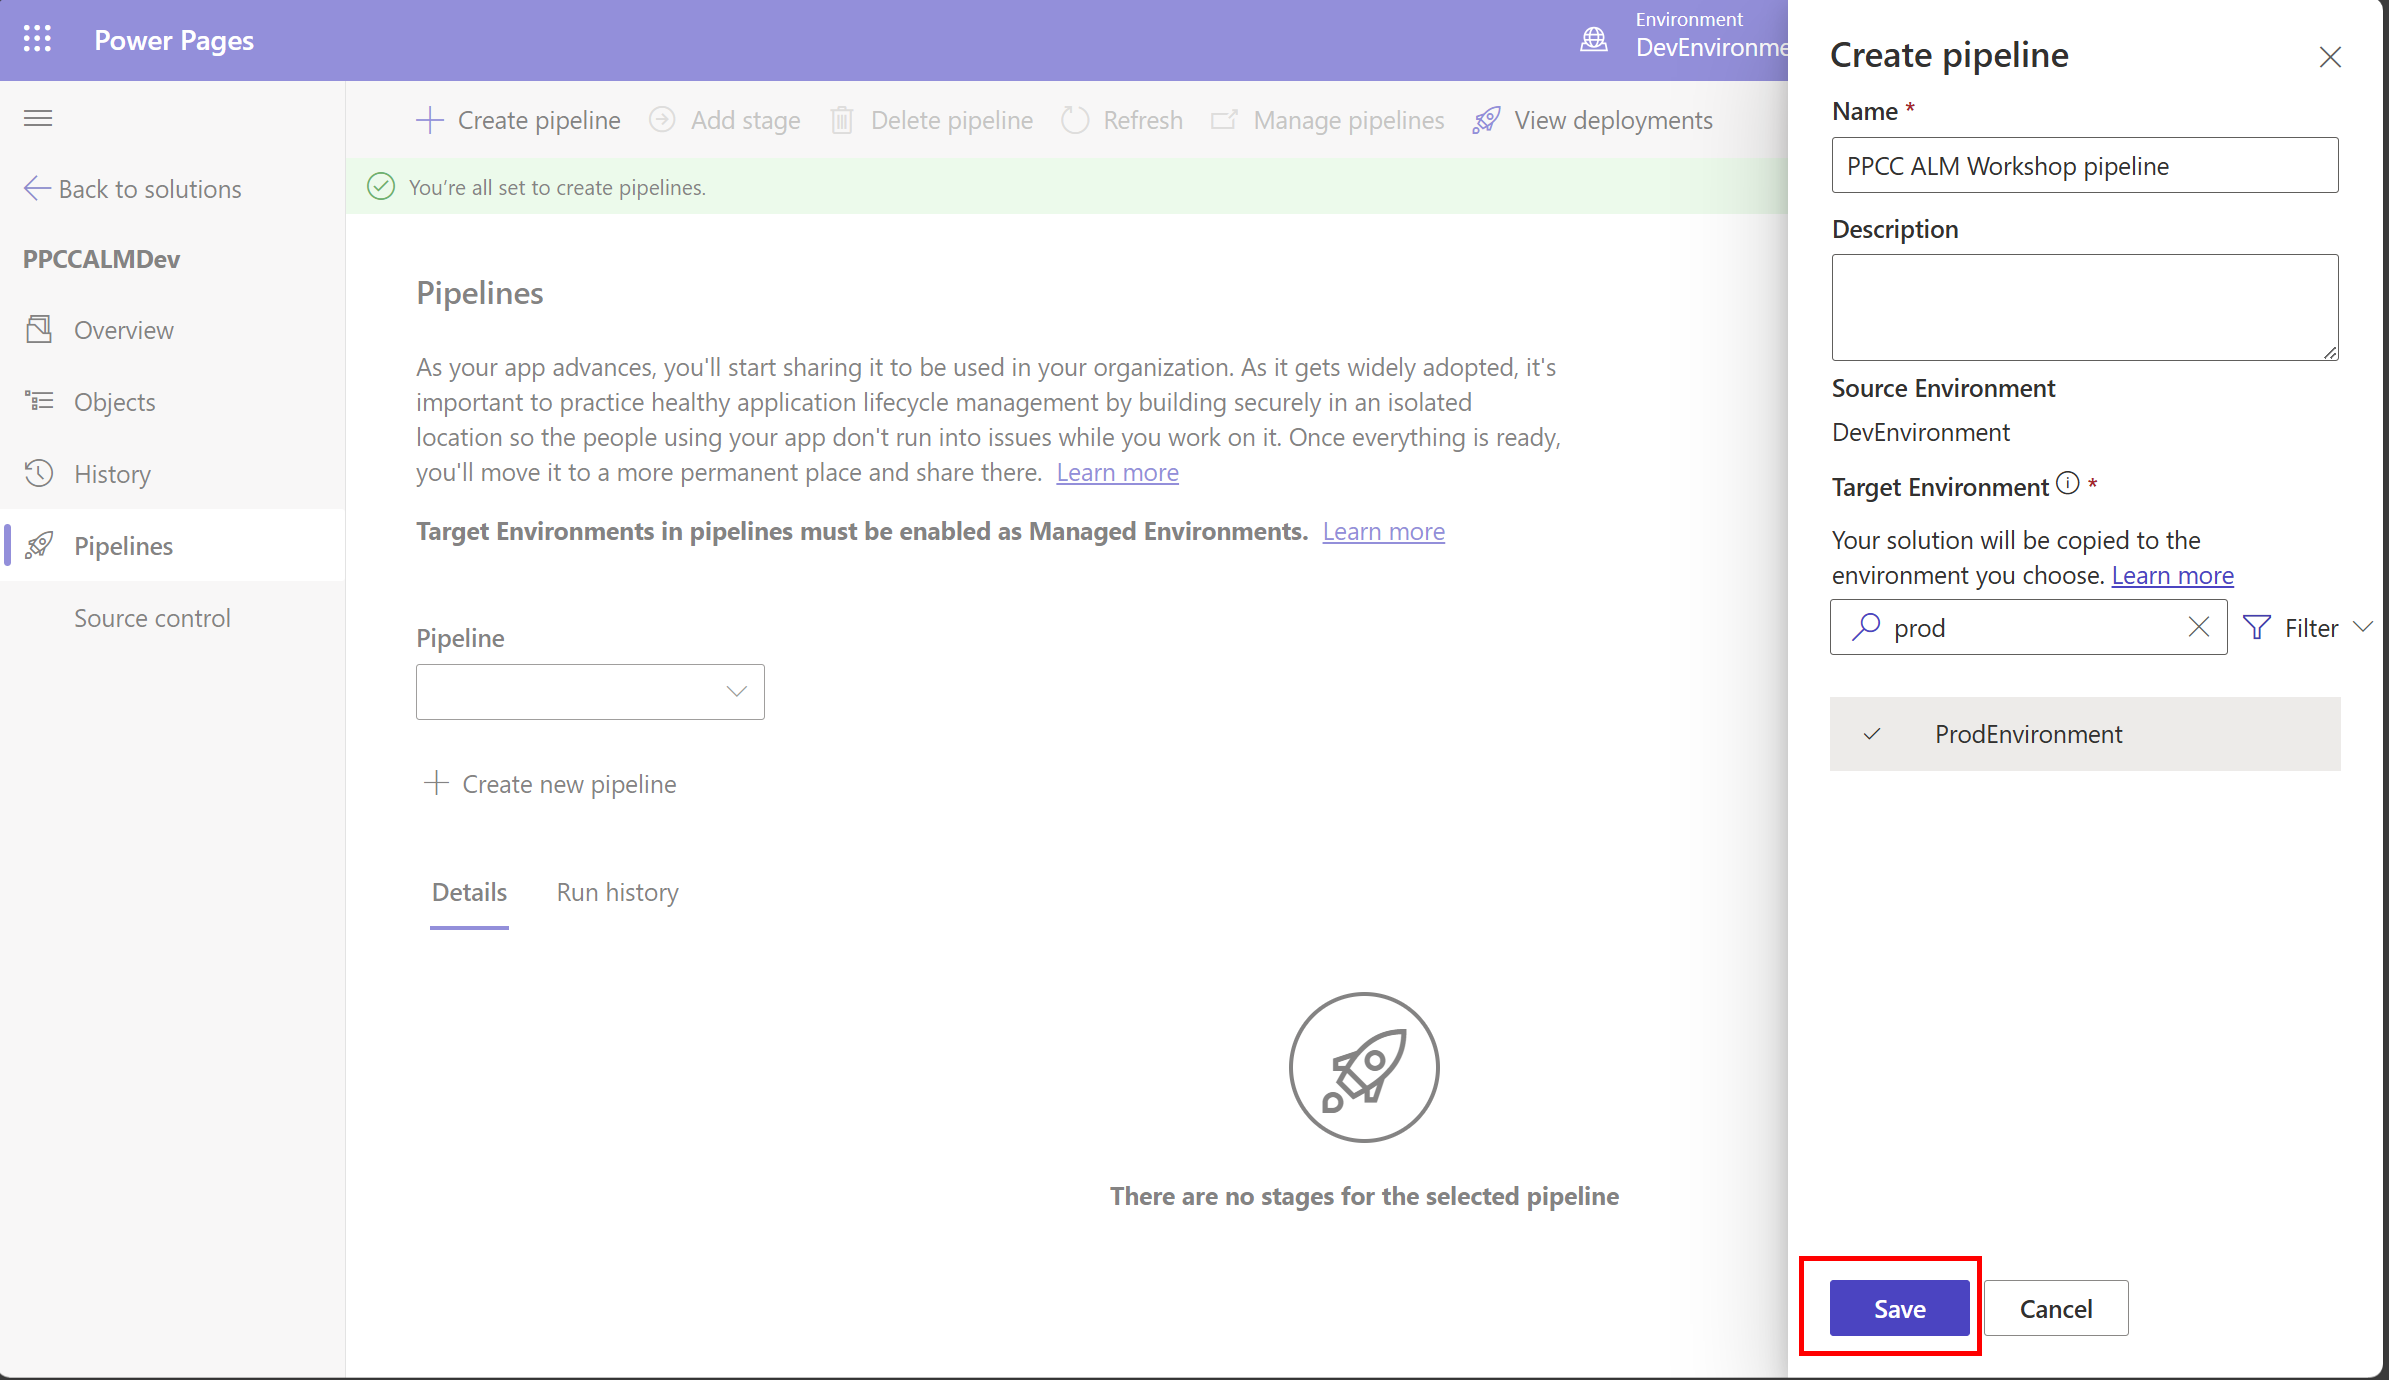
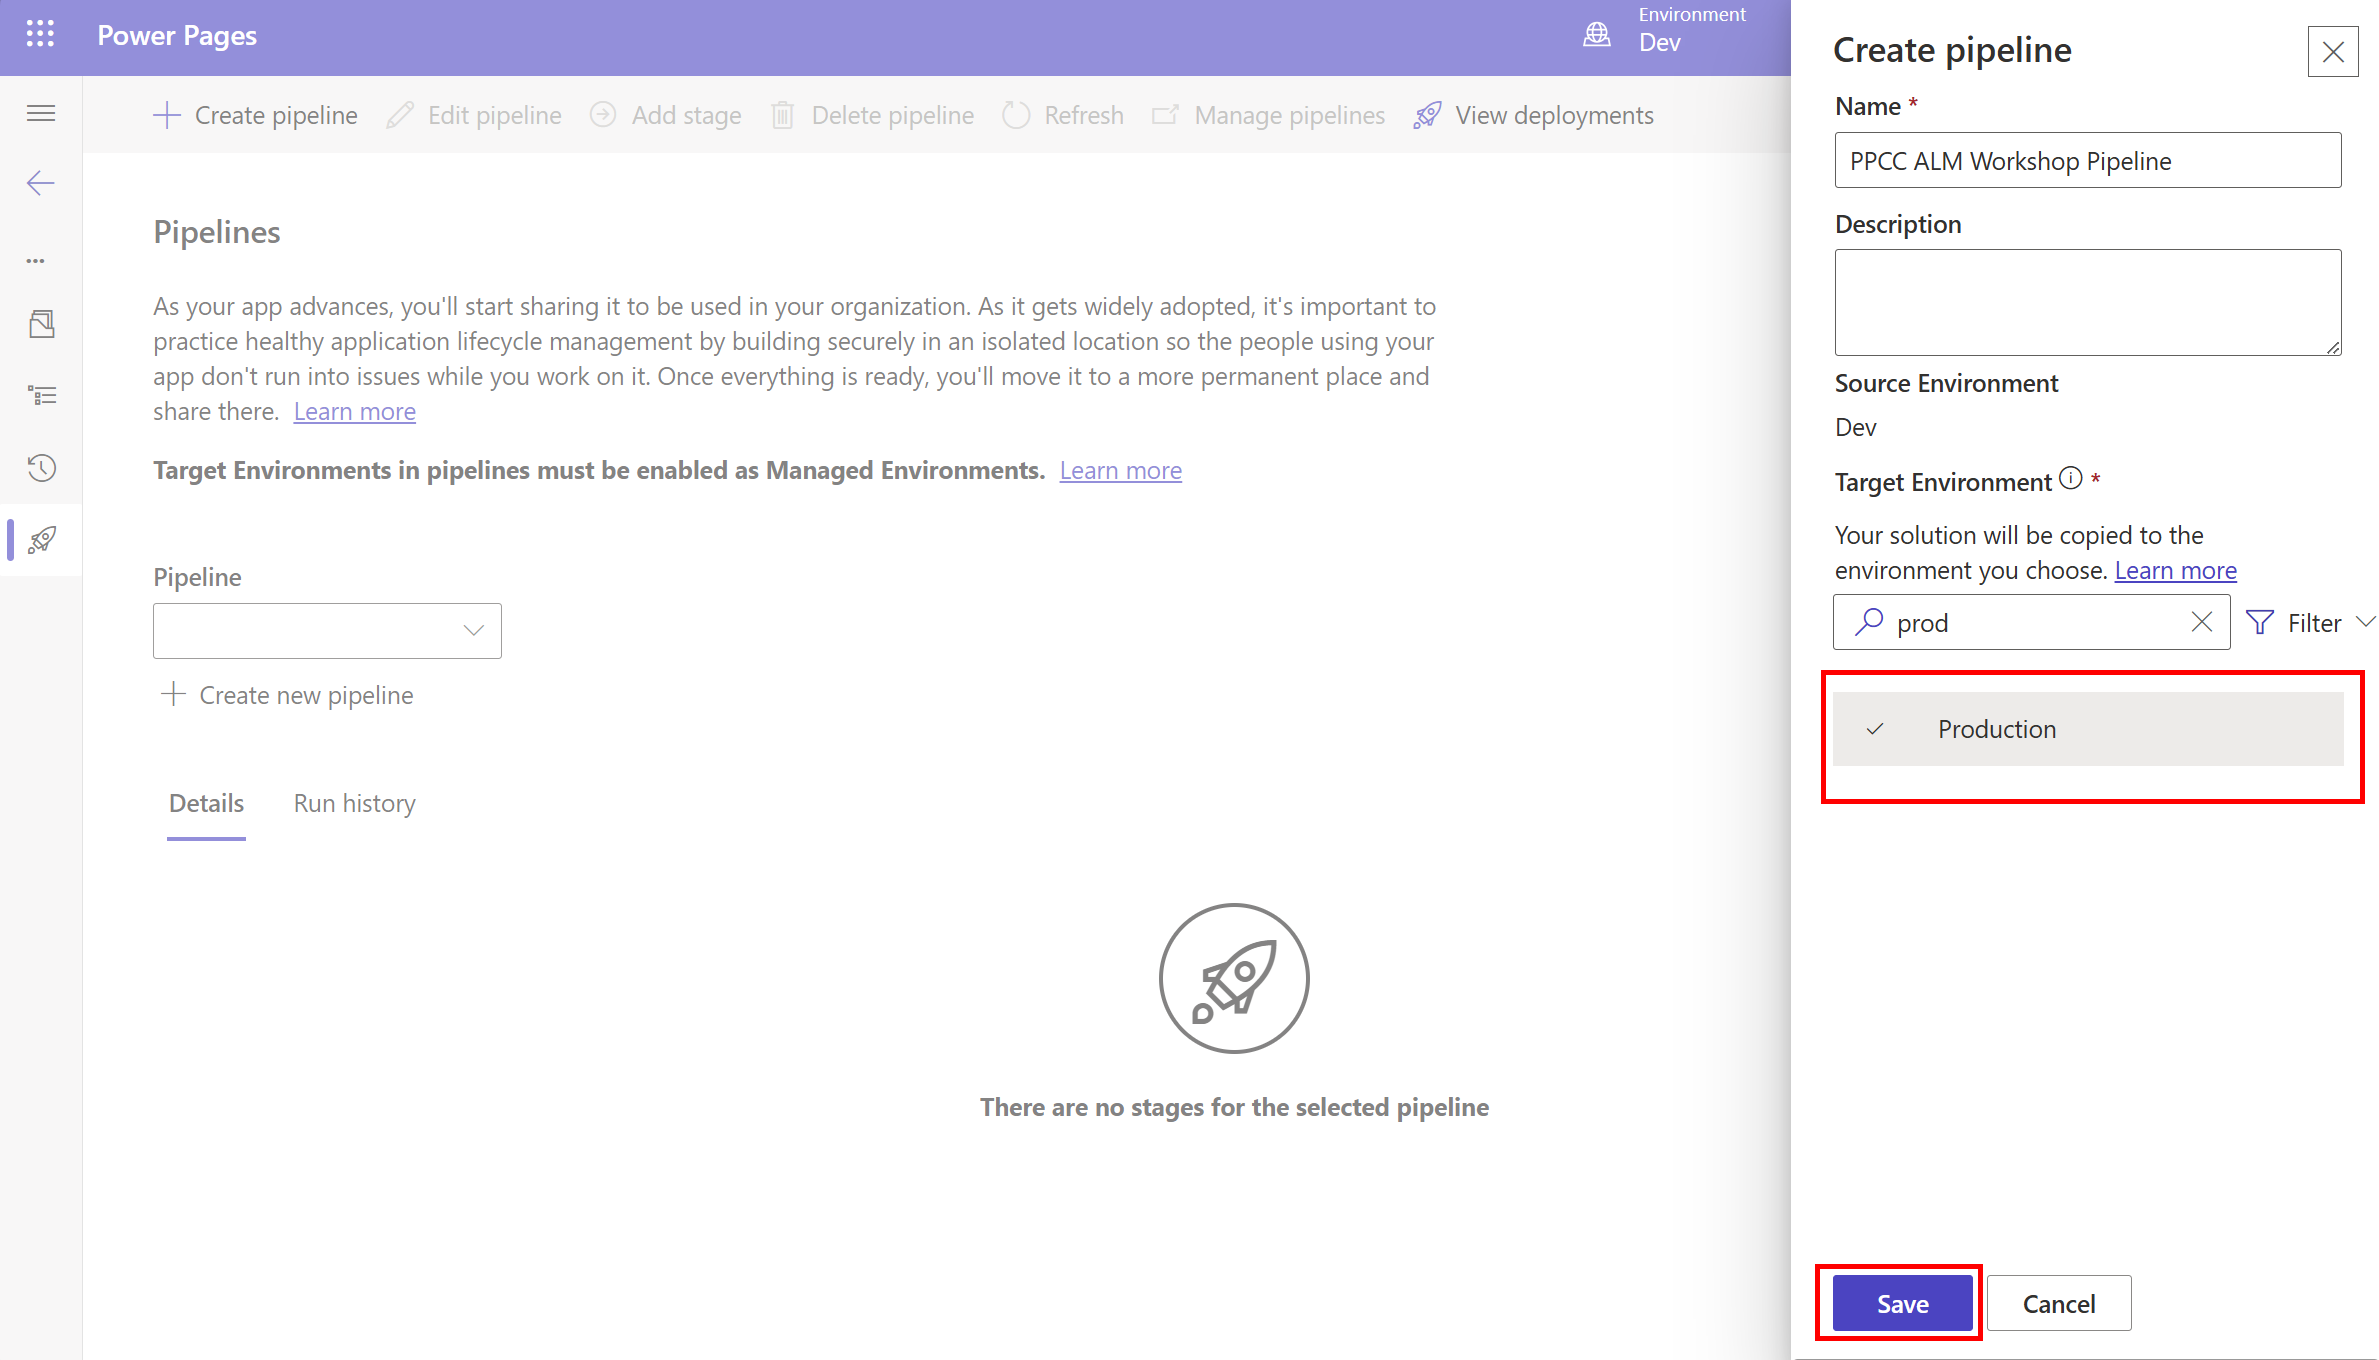
Updates

diff --git a/docs/labs/lab4/lab/README.md b/docs/labs/lab4/lab/README.md
@@ -1,90 +1,76 @@
-# Lab 4: ALM with Power Pages
+# 🧪 Lab 4: Power Pages
 
 ## Table of Contents
 
-- [Pre-requisites](#pre-requisites)
+- [Pre-requisites](#-pre-requisites)
 - [Overview](#overview)
 - [Steps](#steps)
-  1. [Configure Azure DevOps](#configure-azure-devops)
-  1. [Create solution and connect to Git](#create-solution-and-connect-to-git)
   1. [Create Power Pages site](#create-power-pages-site)
   1. [Add site to solution](#add-site-to-solution)
   1. [Configure Power Pipelines](#configure-power-pipelines)
   1. [Deploy to Prod Environment](#deploy-to-prod-environment)
-  1. [Activate Site in ProdEnvironment](#activate-site-in-prodenvironment)
+  1. [Activate Site in Prod Environment](#activate-site-in-prod-environment)
   1. [Committing changes to Source Control](#committing-changes-to-source-control)
   1. [Cloning the repository locally](#cloning-the-repository-locally)
   1. [Editing the site in VS Code](#editing-the-site-in-vs-code)
   1. [Pulling changes in Solution Explorer](#pulling-changes-in-solution-explorer)
   1. [Updating Environment Variables](#updating-environment-variables)
-  1. [Deploy the updated solution to ProdEnvironment](#deploy-the-updated-solution-to-prodenvironment)
+  1. [Deploy the updated solution to Prod Environment](#deploy-the-updated-solution-to-prod-environment)
   1. [Verify changes](#verify-changes)
-- [Steps to enable Managed Environment](#steps-to-enable-managed-environment)
 
-## Pre-requisites
+## 📋 Pre-requisites
 
+1. Complete labs 1 and 2.
 1. Install VS Code Desktop from this [download link](https://code.visualstudio.com/download).
 1. Following steps will work on EDM environments. (This should be enabled by default).
 
 ## Overview
 
-In this scenario, we will be doing the following:
+In this lab, we will be doing the following:
 
 ![Flow](images/flow.jpg)
 
 ## Steps
 
-1. Setup two managed environments, **DevEnvironment** and **ProdEnvironment**. Follow [these](#steps-to-enable-managed-environment) steps to enable managed environment.
-
-### Configure Azure DevOps
-
-1. Navigate to [Azure DevOps Portal](https://aex.dev.azure.com/) and create a new organization.
-
-    ![Create Azure DevOps Organization](images/create-ado-org.png)
-
-1. Create a new project. This will automatically create a git repository with the same name as the project.
-
-    ![Create Azure DevOps Project](images/create-ado-project.png)
-
-1. In the new project, navigate to **Repos** and initialize it with main branch.
-
-    ![Initialize Repo](images/initialize-repo.png)
-
-### Create solution and connect to Git
-
-1. In a new tab, open [Power Pages Maker Studio](https://make.powerpages.microsoft.com/) and select **DevEnvironment** from top right corner.
-
-    ![Select Environment](images/select-environment.png)
-
-1. Click on **Solutions** option from left burger icon to open Solutions Explorer.
-
-    ![Solutions Explorer](images/solution-explorer.png)
-
-1. Click on **Connect to Git** button to setup your git repository for this environment.
-
-    ![Connect to Git](images/connect-to-git.png)
-
-1. Use above created Azure DevOps project to connect to git. You can name the folder as applicable.
-
-    ![Connect to Git Repo](images/connect-to-git-repo.png)
-
 ### Create Power Pages site
 
-1. After successful connection, navigate to home and proceed to create your first power pages site **PPCC ALM Dev** using blank template.
+1. Open [Power Pages Maker Studio](https://make.powerpages.microsoft.com/) in a new tab.
 
-    ![Create Power Pages Site](images/create-power-pages-site.png)
+1. You will see the first run experience. Click on **Get Started** button.
 
-    ![Create Power Pages Site 2](images/create-power-pages-site-2.png)
+    ![Get Started](images/getting-started.png)
 
-1. Once the **PPCC ALM Dev** site is ready, navigate back to Solutions Explorer and click on **New Solution** to create a new solution.
+1. Select any industry you want, for example **Finance** and click on **Next**.
+
+    ![Select Industry](images/select-industry.png)
+
+1. Select any of the suggestions or you can also write your own prompt and click on **Build my site**.
+
+    ![Build My Site](images/select-site.png)
+
+1. Change the site name to **PPCC ALM Dev** and click on **Next**.
+
+    ![Site Name](images/site-name.png)
+
+1. If the layout looks good, click on **Next**.
+
+    ![Site Layout](images/site-layout.png)
+
+1. Select few pages to be included in the site and click on **Next**.
+
+    ![Select Pages](images/select-pages.png)
+
+1. Wait for the site to be created.
+
+### Add site to solution
+
+1. Once the **PPCC ALM Dev** site is ready, navigate to Solutions Explorer and click on **New Solution** to create a new solution.
 
     ![New Solution](images/new-solution.png)
 
 1. Name the solution **PPCCALMDev**, select **CDS Default Publisher** from Publisher dropdown and click **Create**.
 
     ![Create New Solution](images/create-new-solution.png)
-
-### Add site to solution
 
 1. Click on **Objects** from the left menu.
 
@@ -116,7 +102,7 @@ In this scenario, we will be doing the following:
 
     ![Create Pipeline](images/create-pipeline.png)
 
-1. Name the pipeline **PPCC ALM Workshop pipeline** and select **ProdEnvironment** as the target environment and click on **Save**.
+1. Name the pipeline **PPCC ALM Workshop pipeline** and select **Prod** environment as the target environment and click on **Save**.
 
     ![Create Pipeline](images/create-pipeline-2.png)
 
@@ -126,7 +112,7 @@ In this scenario, we will be doing the following:
 
 ### Deploy to Prod Environment
 
-1. Click on **Deploy Here** button to deploy the solution to ProdEnvironment.
+1. Click on **Deploy Here** button to deploy the solution to **Prod** Environment.
 
     ![Deploy Here](images/deploy-here.png)
 
@@ -140,17 +126,17 @@ In this scenario, we will be doing the following:
 
     ![Deployment in Progress](images/deployment-in-progress.png)
 
-1. Once the deployment is complete, switch to **ProdEnvironment** from top right corner in Power Pages Maker Studio.
+1. Once the deployment is complete, switch to **Prod** environment from top right corner in Power Pages Maker Studio.
 
     ![Switch Environment](images/switch-environment.png)
 
-### Activate Site in ProdEnvironment
+### Activate Site in Prod Environment
 
 1. Click on **Inactive Sites** tab to view the list of inactive sites.
 
     ![Inactive Sites](images/inactive-sites.png)
 
-1. Click on **Reactive** button to activate the site and then click on **Done**.
+1. Click on **Reactivate** button to activate the site and then click on **Done**.
 
     ![Reactivate Site](images/reactivate-site.png)
 
@@ -160,7 +146,7 @@ In this scenario, we will be doing the following:
 
 ## Committing changes to Source Control
 
-1. Go back to **DevEnvironment** and navigate to **Solutions Explorer** and select the **PPCCALMDev** solution.
+1. Go back to **Dev** environment and navigate to **Solutions Explorer** and select the **PPCCALMDev** solution.
 
 1. Select **Source Control** from the left menu.
 
@@ -211,7 +197,11 @@ In this scenario, we will be doing the following:
 
 ### Editing the site in VS Code
 
-1. Open **Home.webpage.copy.html** file and use GitHub Copilot to add a welcome message to the home page.
+1. Create a new branch by clicking on Source Control icon from the left menu and then More -> Branch -> Create New Branch. Give the branch name as **feature/add-welcome-message**
+
+    ![Create New Branch](images/create-new-branch.png)
+
+1. Open **Home.webpage.copy.html** file and use GitHub Copilot to add a welcome message to the home page. Click on **Keep** once the Copilot is completed making the changes.
 
     ![Edit Home Page](images/edit-home-page.png)
 
@@ -219,9 +209,21 @@ In this scenario, we will be doing the following:
 
     ![Commit Changes in VS Code](images/commit-changes-vscode.png)
 
+1. Now, go back to Azure DevOps repo and refresh the page. You will see a new branch created named **feature/add-welcome-message**. Click on **Create a pull request** button.
+
+    ![Create Pull Request](images/create-pull-request.png)
+
+1. You will see the changes made in the pull request. Click on **Create** button to create the pull request.
+
+1. Click on **Files** tab to review the changes and then click on **Complete** button to complete the pull request.
+
+    >**Tip**: In real-world scenarios, you would typically have another team member review the pull request before completing it.
+
+    ![Complete Pull Request](images/complete-pull-request.png)
+
 ### Pulling changes in Solution Explorer
 
-1. Go back to **Power Pages Maker Studio** in **DevEnvironment** and navigate to **Solutions Explorer**.
+1. Go back to **Power Pages Maker Studio** in **Dev** environment and navigate to **Solutions Explorer**.
 
 1. Select **Source Control** from the left menu and click on **Check for updates** button. _This might take a while._
 
@@ -275,9 +277,9 @@ In this scenario, we will be doing the following:
 
     ![Environment Variable Added](images/env-var-added.png)
 
-### Deploy the updated solution to ProdEnvironment
+### Deploy the updated solution to Prod Environment
 
-1. Go to **Pipelines** tab and click on **Deploy Here** button to deploy the updated solution to **ProdEnvironment**.
+1. Go to **Pipelines** tab and click on **Deploy Here** button to deploy the updated solution to **Prod** environment.
 
 1. Click on **Next** and you'll be asked to select a value for the environment variable. Select **No** and click on **Next**.
 
@@ -287,7 +289,7 @@ In this scenario, we will be doing the following:
 
 ### Verify changes
 
-1. Open the website preview in **DevEnvironment** by clicking on **Preview** -> **Desktop**.
+1. Open the website preview in **Dev** environment by clicking on **Preview** -> **Desktop**.
 
     ![Preview Site in DevEnvironment](images/preview-site-devenv.png)
 
@@ -295,18 +297,8 @@ In this scenario, we will be doing the following:
 
     ![Local Login Enabled](images/local-login-enabled.png)
 
-1. Now, go back to **Power Pages Maker Studio** and switch to **ProdEnvironment** from top right corner and preview the site.
+1. Now, go back to **Power Pages Maker Studio** and switch to **Prod** environment from top right corner and preview the site.
 
 1. Click on **Sign In** button to verify that the local login is disabled.
 
     ![Local Login Disabled](images/local-login-disabled.png)
-
-## Steps to enable Managed Environment
-
-1. Navigate to Power Platform Admin Center (PPAC) at <https://admin.powerplatform.microsoft.com/manage/environments>
-1. In the Manage tab on the left-hand side, click on **Environments**
-1. Select the environment where you want to enable Managed Environments
-1. In the ribbon, click **Enable Managed Environments**
-1. Click **Enable** in the fly out wizard
-
-    ![Enable Managed Environment](images/enable-managed-environment.png)
